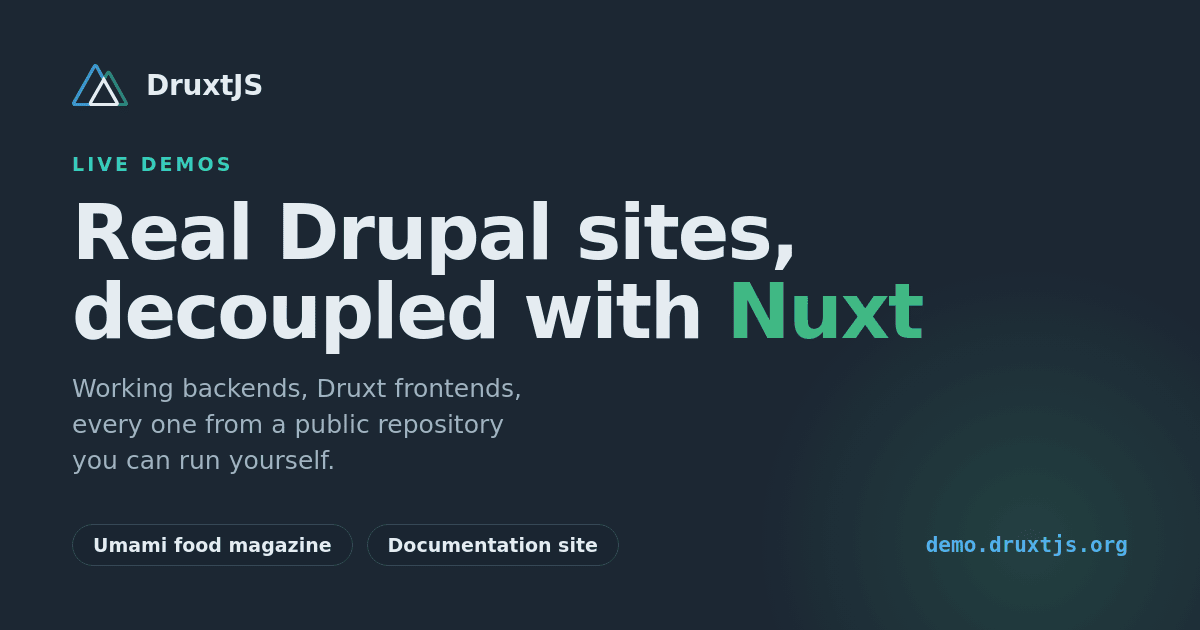
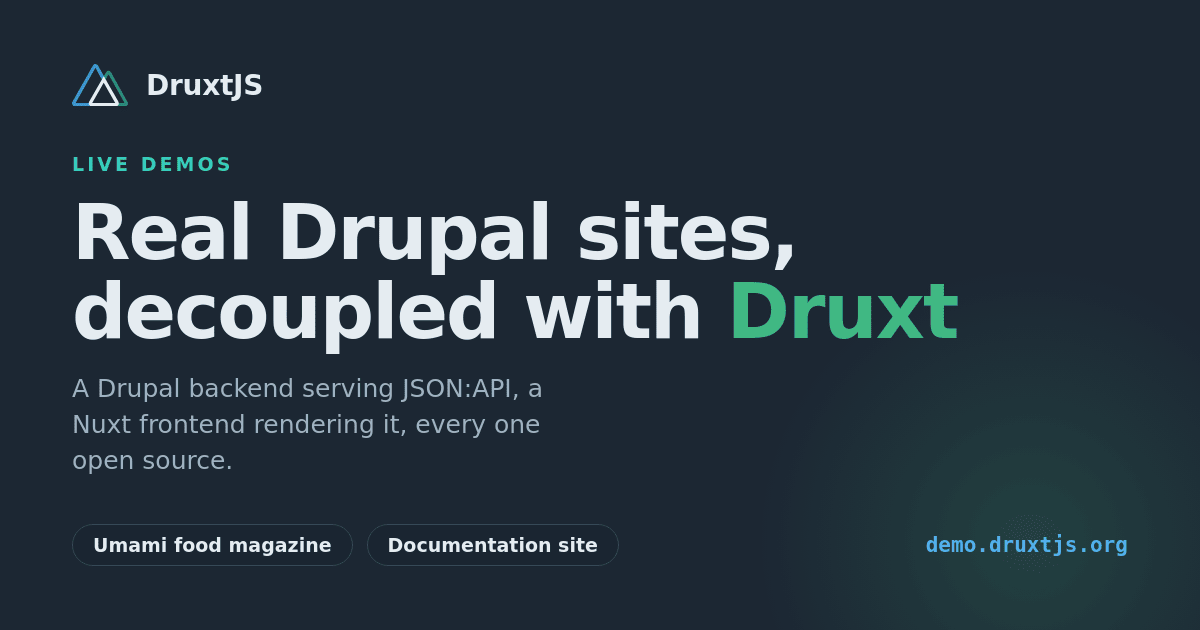
feat(hub): say decoupled with Druxt, and name the Nuxt frontend and JSON:API
Druxt is what decouples the site. Nuxt is the frontend it renders through.
The hero said Nuxt, which named the framework underneath rather than the
thing being demonstrated.

The same wording now runs through the hero, the page title, the meta
description, the og and twitter copy, the share card and the llms.txt
preamble, so they cannot drift apart. It also works in the terms the site
draws impressions on without clicks, among them decoupled Drupal and
JSON:API.

diff --git a/nuxt/pages/index.vue b/nuxt/pages/index.vue
@@ -41,12 +41,12 @@
             class="mb-4 text-3xl font-bold leading-tight tracking-tight sm:text-5xl"
           >
             Real Drupal sites,<br />decoupled with
-            <span class="text-brand-green">Nuxt</span>
+            <span class="text-brand-green">Druxt</span>
           </h1>
           <p class="mx-auto mb-8 max-w-xl text-lg text-ink-muted">
-            Every demo below is a working Drupal backend and a Druxt frontend,
-            deployed from a public repository you can read, fork and run
-            yourself.
+            Every demo below is a working Drupal backend serving JSON:API and a
+            Nuxt frontend that renders it, deployed from a public repository you
+            can read, fork and run yourself.
           </p>
           <a
             class="inline-flex items-center rounded-md bg-brand-green px-6 py-3 font-semibold text-ink-deep hover:bg-brand-green-hi"

diff --git a/nuxt/nuxt.config.js b/nuxt/nuxt.config.js
@@ -41,9 +41,9 @@ const analyticsEnabled = process.env.ANALYTICS_ENABLED === 'true'
 
 const SITE_ORIGIN = process.env.SITE_ORIGIN || 'https://demo.druxtjs.org'
 const SITE_NAME = 'DruxtJS'
-const SITE_TITLE = 'DruxtJS demos'
+const SITE_TITLE = 'Decoupled Drupal demos - DruxtJS'
 const SITE_DESCRIPTION =
-  'Live demos of Drupal sites decoupled with Nuxt, each a working backend and Druxt frontend deployed from a public repository you can read, fork and run yourself.'
+  'Live demos of decoupled Drupal: a Drupal backend serving JSON:API and a Nuxt frontend rendering it with Druxt. Each one is open source and runs from a public repository you can read, fork and run yourself.'
 const TWITTER_HANDLE = '@DruxtJS'
 const OG_IMAGE = SITE_ORIGIN + '/og-druxt.png'
 

diff --git a/nuxt/lib/llms-txt.js b/nuxt/lib/llms-txt.js
@@ -31,7 +31,7 @@ const buildLlmsTxt = (demos, site) => {
     '',
     `> ${site.SITE_DESCRIPTION}`,
     '',
-    'Every demo is a Drupal backend serving JSON:API and a Nuxt frontend rendering it with Druxt. Each one runs from a public repository, so the code behind any screen here can be read and run.',
+    'Decoupled Drupal, end to end: a Drupal backend serving JSON:API and a Nuxt frontend rendering it with Druxt, which maps Drupal entities, view modes, views and menus onto Vue components. Each demo runs from a public repository, so the code behind any screen here can be read and run.',
     '',
   ]
 

diff --git a/nuxt/scripts/og-card.html b/nuxt/scripts/og-card.html
@@ -121,10 +121,10 @@
     </div>
     <div>
       <p class="eyebrow">Live demos</p>
-      <h1>Real Drupal sites,<br />decoupled with <i>Nuxt</i></h1>
+      <h1>Real Drupal sites,<br />decoupled with <i>Druxt</i></h1>
       <p>
-        Working backends, Druxt frontends, every one from a public repository
-        you can run yourself.
+        A Drupal backend serving JSON:API, a Nuxt frontend rendering it, every
+        one open source.
       </p>
     </div>
     <div class="foot">

diff --git a/README.md b/README.md
@@ -11,8 +11,9 @@
 [![Deploy](https://github.com/druxt/demo.druxtjs.org/actions/workflows/build-test-deploy.yml/badge.svg?branch=main)](https://github.com/druxt/demo.druxtjs.org/actions/workflows/build-test-deploy.yml)
 
 The source of [demo.druxtjs.org](https://demo.druxtjs.org): a list of live
-Drupal sites decoupled with Nuxt, each built with [Druxt](https://druxtjs.org)
-from a public repository.
+Drupal sites decoupled with [Druxt](https://druxtjs.org), each one a Drupal
+backend serving JSON:API and a Nuxt frontend rendering it, deployed from a
+public repository.
 
 The site is two applications in one repository. `drupal/` is a Drupal backend
 whose configuration and content are committed and imported by
